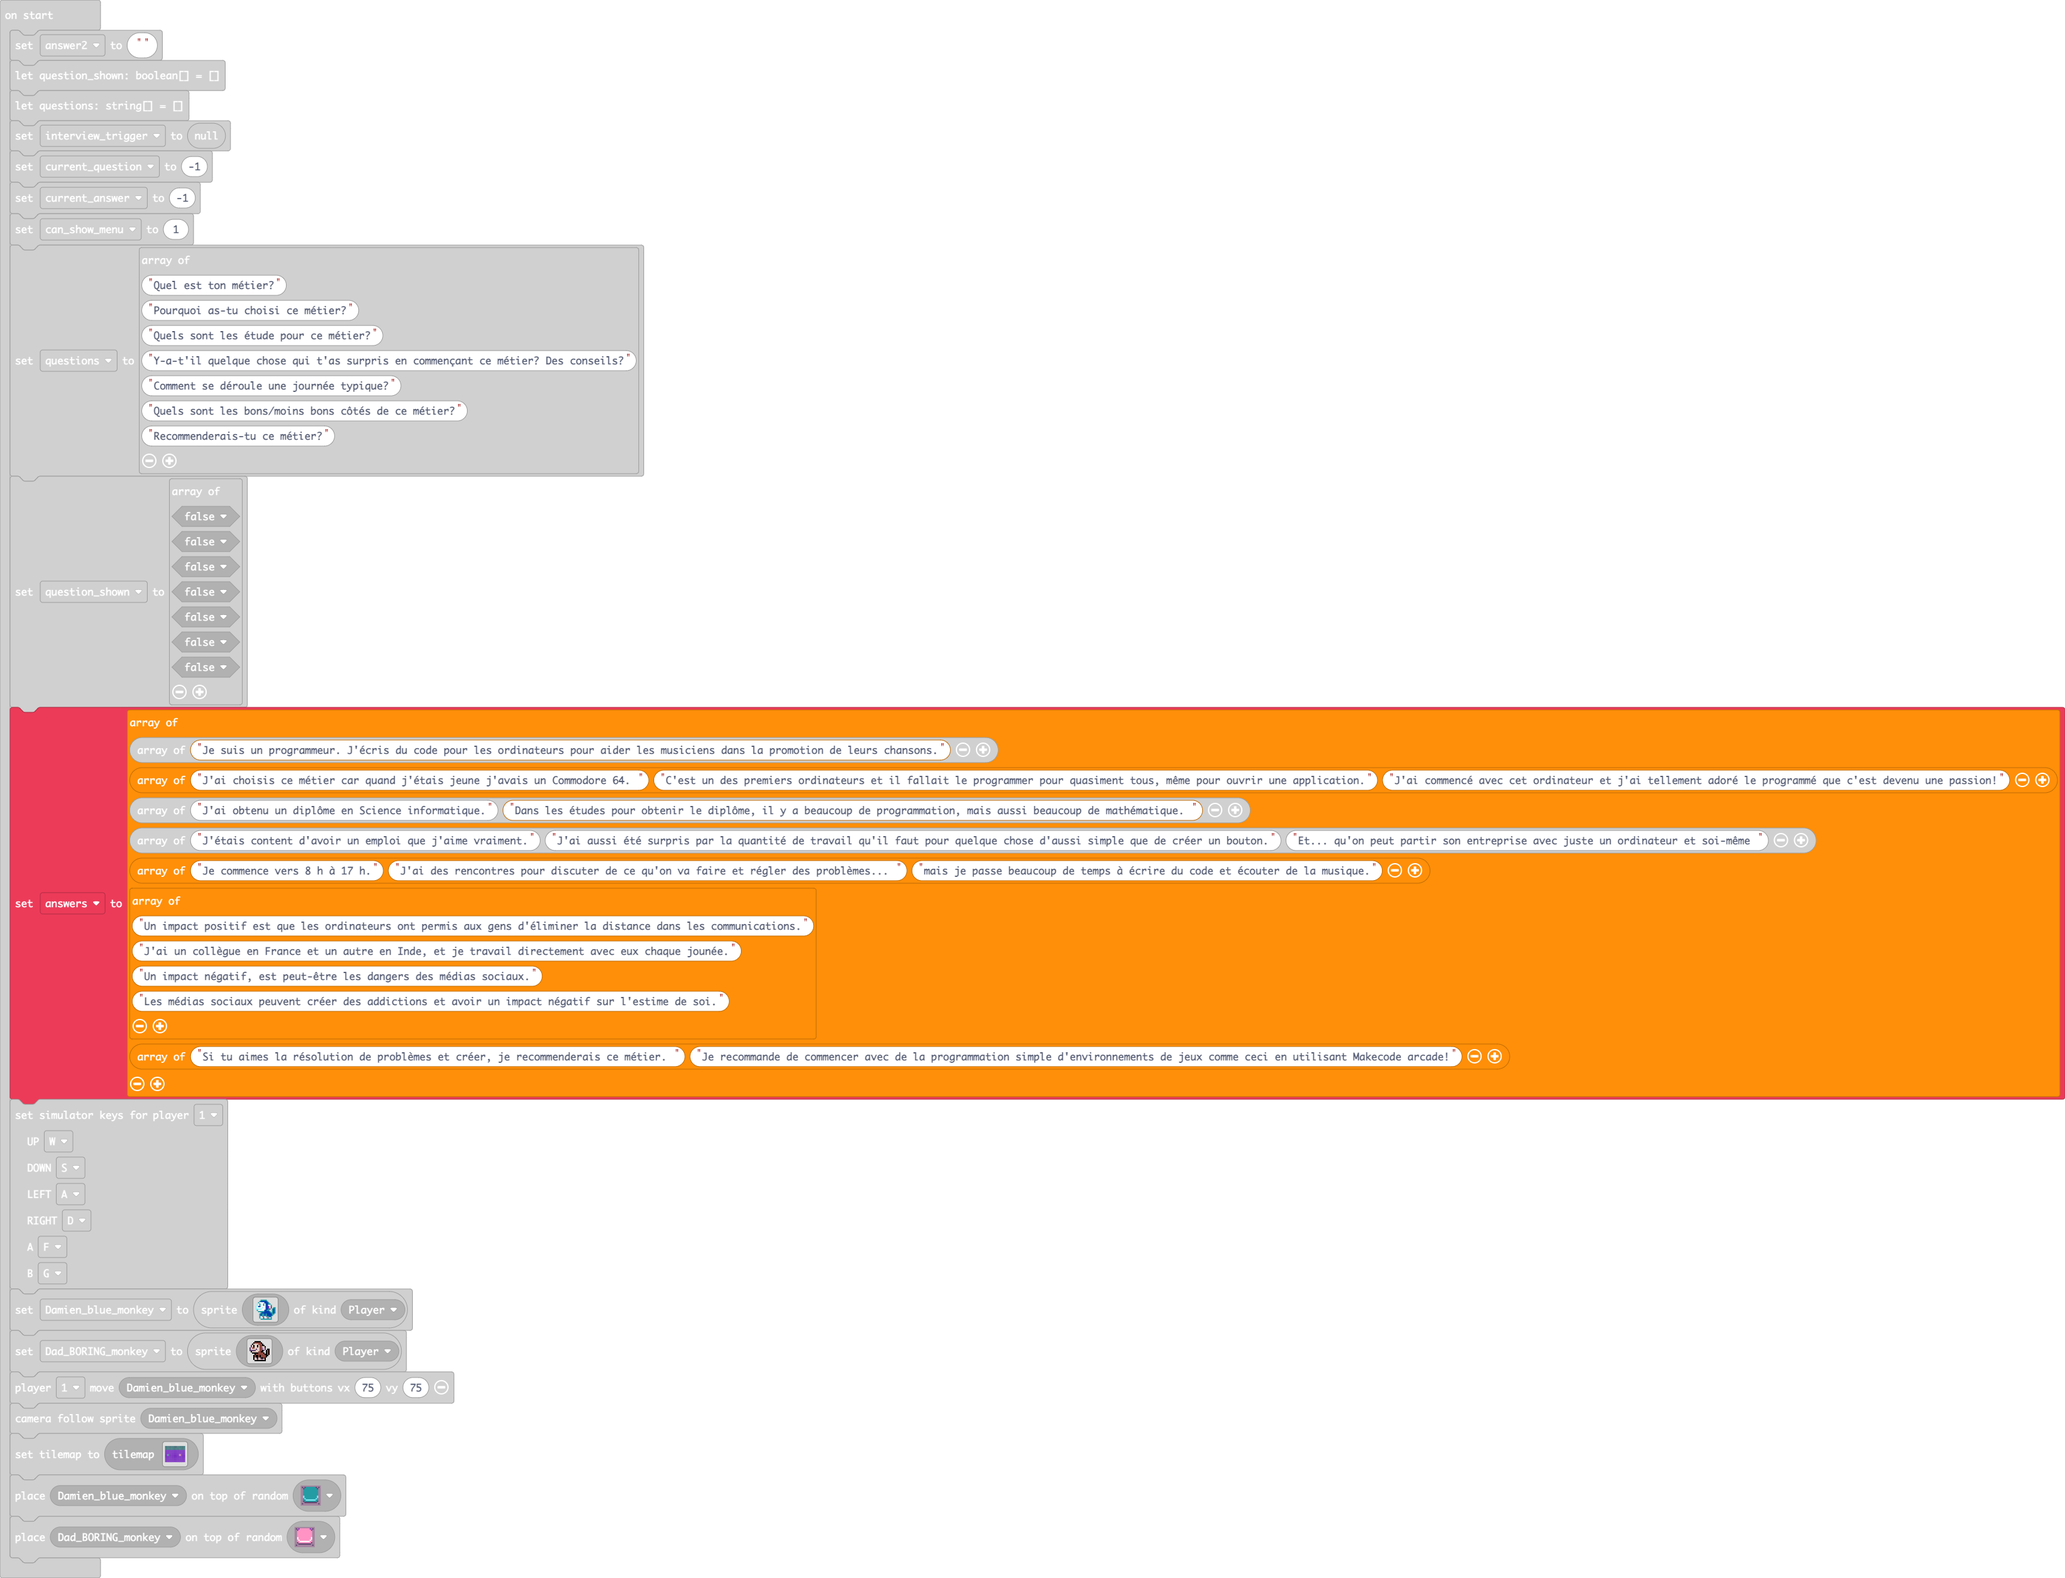
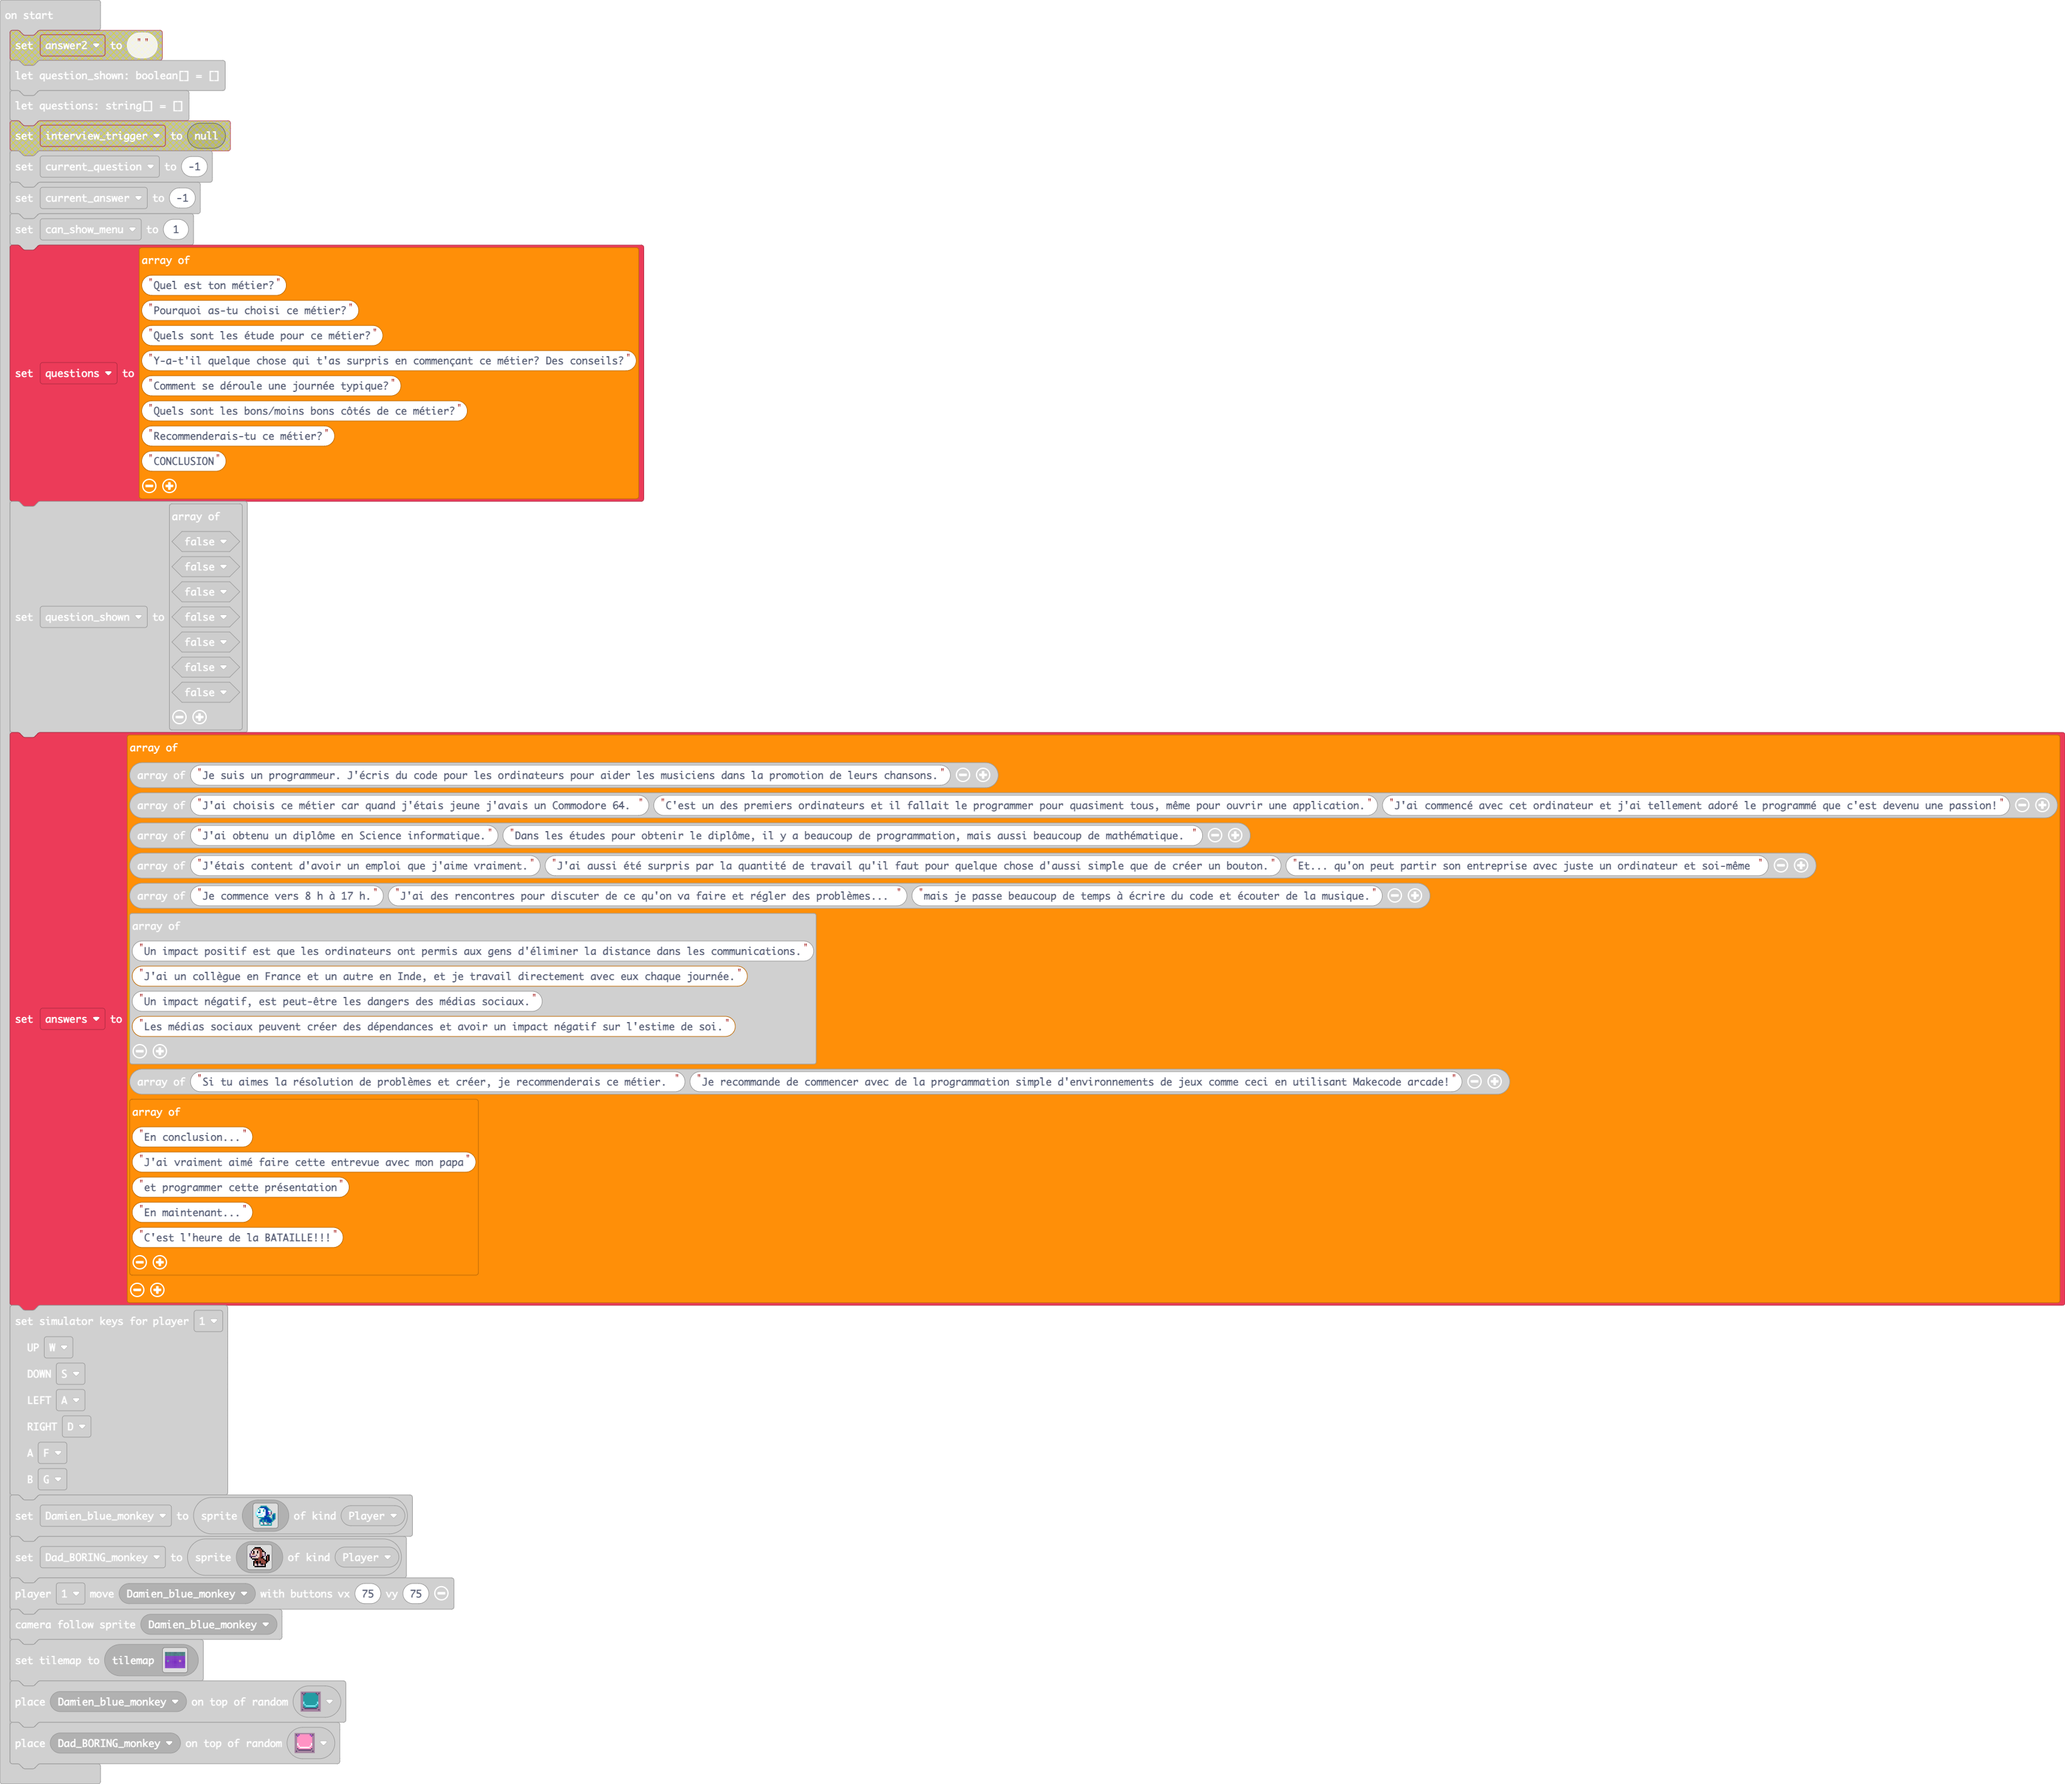
questions are done

Changed region(s): [[0.0, 0.0, 1.0, 0.9936]]

diff --git a/tilemap.g.ts b/tilemap.g.ts
@@ -35,6 +35,44 @@ namespace myTiles {
 . . . . . . . . . . . . . . . . 
 . . . . . . . . . . . . . . . . 
 `, [myTiles.transparency16], TileScale.Sixteen);
+            case "level3":
+            case "level3":return tiles.createTilemap(hex`1000100000000000000000000000000000000000000000000000000000000000000000000000000000000000000000000000000000000000000000000000000000000000000000000000000000000000000000000000000000000000000000000000000000000000000000000000000000000000000000000000000000000000000000000000000000000000000000000000000000000000000000000000000000000000000000000000000000000000000000000000000000000000000000000000000000000000000000000000000000000000000000000000000000000000000000000000000000000000000000000000000000000000000000000000000000000000`, img`
+. . . . . . . . . . . . . . . . 
+. . . . . . . . . . . . . . . . 
+. . . . . . . . . . . . . . . . 
+. . . . . . . . . . . . . . . . 
+. . . . . . . . . . . . . . . . 
+. . . . . . . . . . . . . . . . 
+. . . . . . . . . . . . . . . . 
+. . . . . . . . . . . . . . . . 
+. . . . . . . . . . . . . . . . 
+. . . . . . . . . . . . . . . . 
+. . . . . . . . . . . . . . . . 
+. . . . . . . . . . . . . . . . 
+. . . . . . . . . . . . . . . . 
+. . . . . . . . . . . . . . . . 
+. . . . . . . . . . . . . . . . 
+. . . . . . . . . . . . . . . . 
+`, [myTiles.transparency16], TileScale.Sixteen);
+            case "level4":
+            case "level4":return tiles.createTilemap(hex`1000100000000000000000000000000000000000000000000000000000000000000000000000000000000000000000000000000000000000000000000000000000000000000000000000000000000000000000000000000000000000000000000000000000000000000000000000000000000000000000000000000000000000000000000000000000000000000000000000000000000000000000000000000000000000000000000000000000000000000000000000000000000000000000000000000000000000000000000000000000000000000000000000000000000000000000000000000000000000000000000000000000000000000000000000000000000000`, img`
+. . . . . . . . . . . . . . . . 
+. . . . . . . . . . . . . . . . 
+. . . . . . . . . . . . . . . . 
+. . . . . . . . . . . . . . . . 
+. . . . . . . . . . . . . . . . 
+. . . . . . . . . . . . . . . . 
+. . . . . . . . . . . . . . . . 
+. . . . . . . . . . . . . . . . 
+. . . . . . . . . . . . . . . . 
+. . . . . . . . . . . . . . . . 
+. . . . . . . . . . . . . . . . 
+. . . . . . . . . . . . . . . . 
+. . . . . . . . . . . . . . . . 
+. . . . . . . . . . . . . . . . 
+. . . . . . . . . . . . . . . . 
+. . . . . . . . . . . . . . . . 
+`, [myTiles.transparency16], TileScale.Sixteen);
         }
         return null;
     })

diff --git a/main.ts b/main.ts
@@ -53,10 +53,8 @@ let Damien_blue_monkey: Sprite = null
 let answers: string[][] = []
 let current_answer = 0
 let current_question = 0
-let answer2 = ""
 let question_shown: boolean[] = []
 let questions: string[] = []
-let interview_trigger = null
 current_question = -1
 current_answer = -1
 let can_show_menu = 1
@@ -67,7 +65,8 @@ questions = [
 "Y-a-t'il quelque chose qui t'as surpris en commençant ce métier? Des conseils?",
 "Comment se déroule une journée typique?",
 "Quels sont les bons/moins bons côtés de ce métier?",
-"Recommenderais-tu ce métier?"
+"Recommenderais-tu ce métier?",
+"CONCLUSION"
 ]
 question_shown = [
 false,
@@ -86,11 +85,18 @@ answers = [
 ["Je commence vers 8 h à 17 h.", "J'ai des rencontres pour discuter de ce qu'on va faire et régler des problèmes... ", "mais je passe beaucoup de temps à écrire du code et écouter de la musique."],
 [
 "Un impact positif est que les ordinateurs ont permis aux gens d'éliminer la distance dans les communications.",
-"J'ai un collègue en France et un autre en Inde, et je travail directement avec eux chaque jounée.",
+"J'ai un collègue en France et un autre en Inde, et je travail directement avec eux chaque journée.",
 "Un impact négatif, est peut-être les dangers des médias sociaux.",
-"Les médias sociaux peuvent créer des addictions et avoir un impact négatif sur l'estime de soi."
+"Les médias sociaux peuvent créer des dépendances et avoir un impact négatif sur l'estime de soi."
 ],
-["Si tu aimes la résolution de problèmes et créer, je recommenderais ce métier. ", "Je recommande de commencer avec de la programmation simple d'environnements de jeux comme ceci en utilisant Makecode arcade!"]
+["Si tu aimes la résolution de problèmes et créer, je recommenderais ce métier. ", "Je recommande de commencer avec de la programmation simple d'environnements de jeux comme ceci en utilisant Makecode arcade!"],
+[
+"En conclusion...",
+"J'ai vraiment aimé faire cette entrevue avec mon papa",
+"et programmer cette présentation",
+"En maintenant...",
+"C'est l'heure de la BATAILLE!!!"
+]
 ]
 MakeyMakey.setSimulatorKeymap(
 MakeyMakey.PlayerNumber.ONE,
